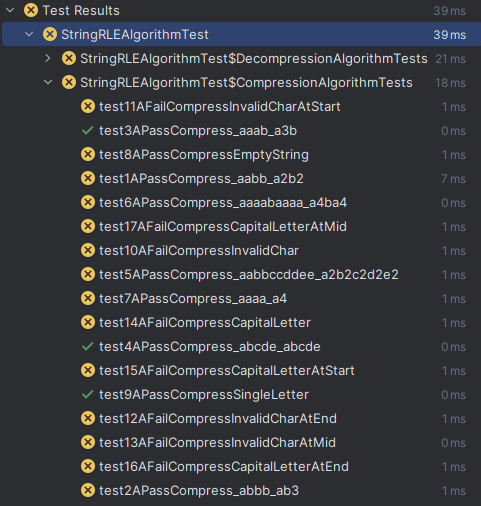
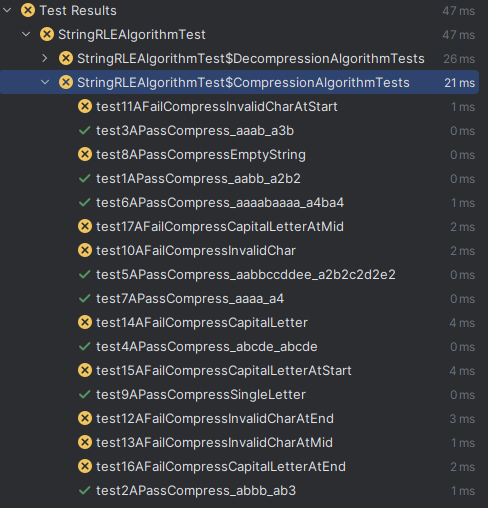
fix: Run length of final sequence not appended
The run length for the last recurring sequence of letters was not being appended to the end of the output string. This fix appends the last run length to the output string.

diff --git a/src/main/java/vortrox/rle/StringRLEAlgorithm.java b/src/main/java/vortrox/rle/StringRLEAlgorithm.java
@@ -21,6 +21,10 @@ public class StringRLEAlgorithm {
             lastChar = input.charAt(i);
         }
 
+        if (runLength > 1) {
+            output.append(runLength);
+        }
+
         return output.toString();
     }
 
